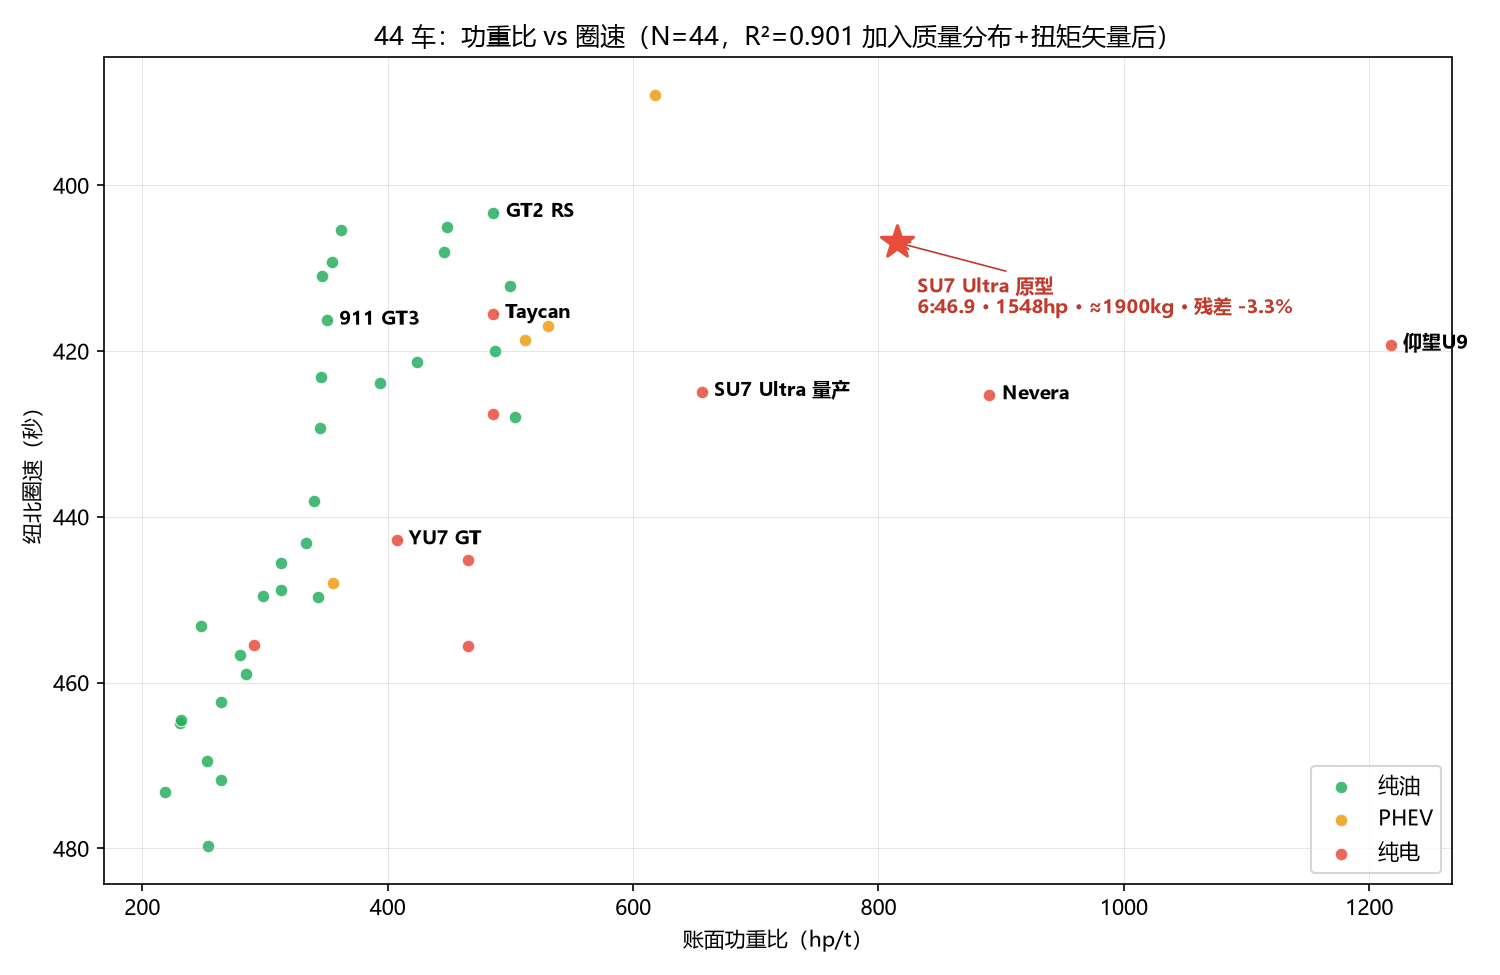
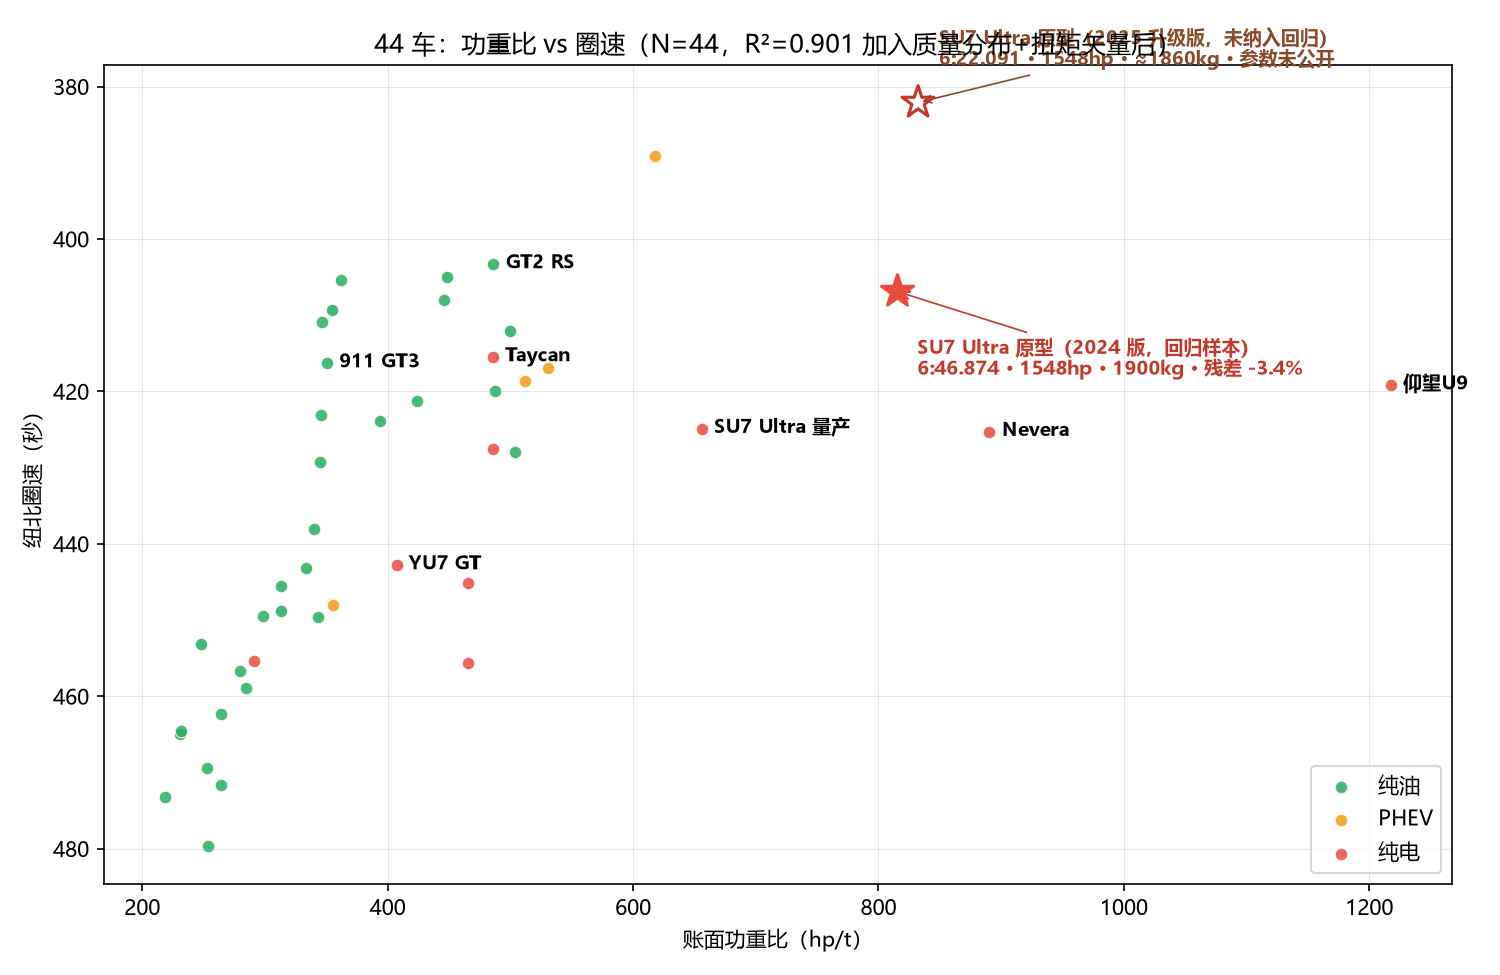
44车散点图：SU7原型两次测试并列标注（6:46.874回归样本+6:22.091升级版未纳入），残差修正-3.4%，功率图账面2977→3019hp口径统一

diff --git a/publish/scripts/gen_figs_p2.py b/publish/scripts/gen_figs_p2.py
@@ -54,13 +54,21 @@ for key, (x, y, lab) in marks.items():
                 fontsize=9, fontweight='bold',
                 arrowprops=dict(arrowstyle='-', lw=0.6, color='#555'))
 
-# SU7 Ultra 原型车 —— 实心星标注
+# SU7 Ultra 原型车 —— 实心星标注（2024 版，回归样本）
 ax.scatter([1548/1.9], [406.874], marker='*', s=260, facecolors='#e74c3c',
            edgecolors='#e74c3c', linewidths=1.5, zorder=6)
-ax.annotate('SU7 Ultra 原型\n6:46.9 · 1548hp · ≈1900kg · 残差 -3.3%',
-            (1548/1.9, 406.874), textcoords='offset points', xytext=(10, -34),
+ax.annotate('SU7 Ultra 原型（2024 版，回归样本）\n6:46.874 · 1548hp · 1900kg · 残差 -3.4%',
+            (1548/1.9, 406.874), textcoords='offset points', xytext=(10, -40),
             fontsize=9, fontweight='bold', color='#c0392b',
             arrowprops=dict(arrowstyle='->', lw=0.8, color='#c0392b'))
+
+# SU7 Ultra 原型车 —— 空心星标注（2025 升级版，未纳入回归）
+ax.scatter([1548/1.86], [382.091], marker='*', s=260, facecolors='none',
+           edgecolors='#c0392b', linewidths=1.5, zorder=6)
+ax.annotate('SU7 Ultra 原型（2025 升级版，未纳入回归）\n6:22.091 · 1548hp · ≈1860kg · 参数未公开',
+            (1548/1.86, 382.091), textcoords='offset points', xytext=(10, 18),
+            fontsize=9, fontweight='bold', color='#8a4b2a',
+            arrowprops=dict(arrowstyle='->', lw=0.8, color='#8a4b2a'))
 
 ax.set_xlabel('账面功重比（hp/t）')
 ax.set_ylabel('纽北圈速（秒）')
@@ -103,7 +111,7 @@ ax.fill_between(t, p, 0, where=(p > 0), color='#3498db', alpha=0.15)
 ax.fill_between(t, p, 0, where=(p < 0), color='#95a5a6', alpha=0.25, label='制动/回收（负值）')
 
 # 账面功率参考线
-ax.axhline(2220, color='#c0392b', ls='--', lw=1.2, label='账面峰值 2220kW（2977hp）')
+ax.axhline(2220, color='#c0392b', ls='--', lw=1.2, label='账面峰值 2220kW（3019hp）')
 
 # 峰值标注 (5fps 口径 + 1s 口径区间)
 imax = np.argmax(p)

diff --git a/publish/篇2-2977马力的真相-纽北回归与U9X功率反推.md b/publish/篇2-2977马力的真相-纽北回归与U9X功率反推.md
@@ -158,7 +158,7 @@ U9 和 SU7 Ultra 的同门对照把分歧讲得更清楚：
 |---|---|---|---|---|
 | 马力压制 | 仰望 U9 | 3019hp 四电机 + 云辇-X | 6:59.157 | +5.3% |
 | 均衡轻量 | SU7 Ultra | 1548hp 三电机 + 被动悬架 | 7:04.9 | -1.5% |
-| 极致轻量 | SU7 Ultra 原型 | 1548hp 三电机 ≈1900kg | 6:46.9 | -3.4% |
+| 极致轻量 | SU7 Ultra 原型（2024 版；2025 版 6:22.091 未纳入回归） | 1548hp 三电机 ≈1900kg | 6:46.9 | -3.4% |
 | 老牌巨头 | Model S Plaid TP | 1020hp 三电机 + 赛道包 | 7:25.2 | +1.2% |
 
 两车圈速只差 5.7 秒，功重比却差一倍。这 5.7 秒的每一秒花在哪里——我们把两车官方车载视频做了全圈逐帧对账（每秒 1 点采样 + 全圈 5fps 重采 OCR 验证，38 个弯道逐弯配对），每一米的速度差、每个弯的加减速账都算到了秒级。结论先卖个关子：**5.7 秒的大头既不在弯道，也不在你想的那条大直道**——完整账本与逐弯截图对照，见姊妹篇《同一套 1548 马力，两个重量：SU7 与 U9X 的纽北全圈账本》。
